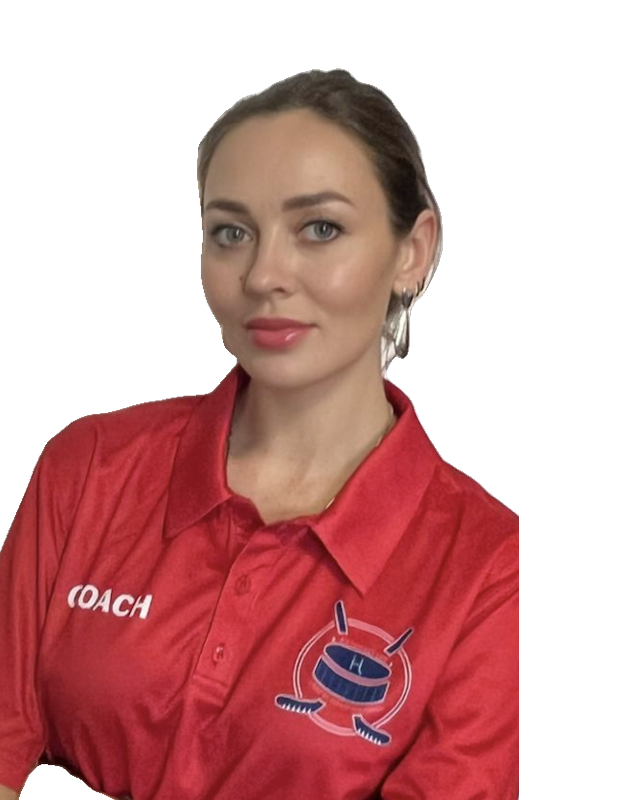
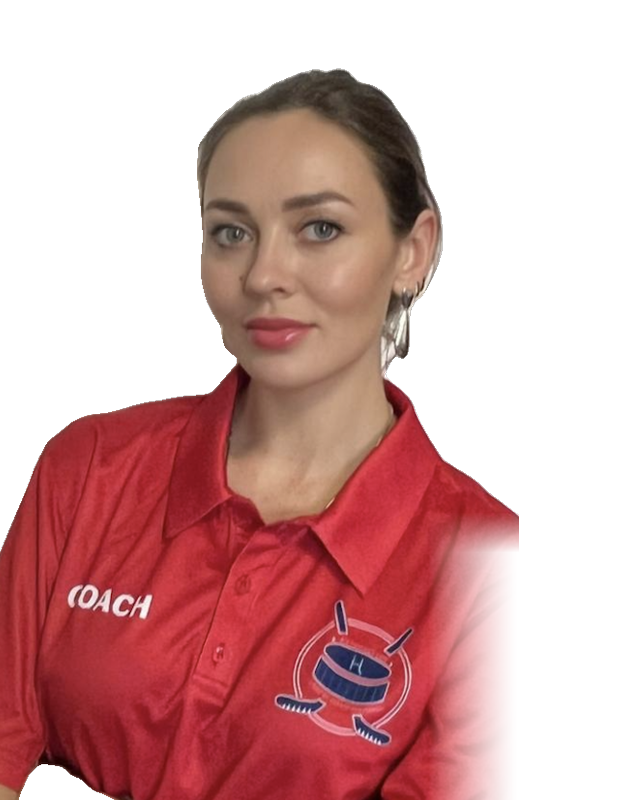
Последние замечания визуальной проверки
- Факты: до 1280 px заголовок сверху, две широкие колонки (на 1101–1280 ответы больше не в 230 px).
- Портрет Ивановой: прямой срез плеча растушёван в фон (новое фото — в списке для владельца).
- Неразрывно: «на&nbsp;VK Видео», «и&nbsp;не отправляется», «Сочи Парк Отель», «Telegram-канал».
- sizes у портретов специалистов и фото программы совпадают с раскладкой (резкость на планшетах).

Changed region(s): [[0.6562, 0.625, 0.8125, 1.0]]

diff --git a/src/data/camp.ts b/src/data/camp.ts
@@ -44,7 +44,8 @@ export const camp = {
   gifts: ['Форма для ОФП', 'Фирменные джерси', 'Шапка', 'Подарки от Ice Hockey Life'],
 
   hotel: {
-    name: 'Сочи Парк Отель',
+    // the name never breaks across lines
+    name: 'Сочи\u00a0Парк\u00a0Отель',
     note: 'Проживание и питание в стоимость не входят. Номера в отеле-партнёре — по специальной цене, её назовёт координатор.',
   },
 } as const;
